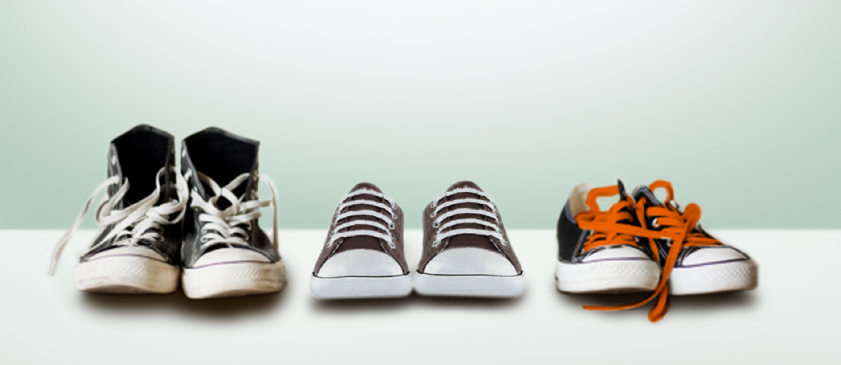
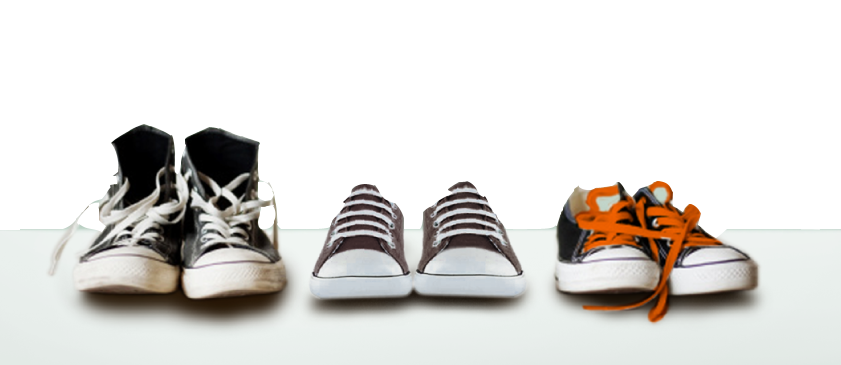
cut out images (badly)

diff --git a/css/main.css b/css/main.css
@@ -14,4 +14,4 @@
  * http://www.apache.org/licenses/LICENSE-2.0
  *
  * Designed and built with all the love in the world @twitter by @mdo and @fat.
- */@-ms-viewport{width:device-width}.hidden{display:none;visibility:hidden}.visible-phone{display:none !important}.visible-tablet{display:none !important}.hidden-desktop{display:none !important}.visible-desktop{display:inherit !important}@media (min-width: 768px) and (max-width: 979px){.hidden-desktop{display:inherit !important}.visible-desktop{display:none !important}.visible-tablet{display:inherit !important}.hidden-tablet{display:none !important}}@media (max-width: 767px){.hidden-desktop{display:inherit !important}.visible-desktop{display:none !important}.visible-phone{display:inherit !important}.hidden-phone{display:none !important}}.visible-print{display:none !important}@media print{.visible-print{display:inherit !important}.hidden-print{display:none !important}}.clearfix{*zoom:1}.clearfix:before,.clearfix:after{display:table;content:"";line-height:0}.clearfix:after{clear:both}.hide-text{font:0/0 a;color:transparent;text-shadow:none;background-color:transparent;border:0}.input-block-level{display:block;width:100%;min-height:30px;-webkit-box-sizing:border-box;-moz-box-sizing:border-box;box-sizing:border-box}@media (min-width: 1200px){.row{margin-left:-30px;*zoom:1}.row:before,.row:after{display:table;content:"";line-height:0}.row:after{clear:both}[class*="span"]{float:left;min-height:1px;margin-left:30px}.container,.navbar-static-top .container,.navbar-fixed-top .container,.navbar-fixed-bottom .container{width:1170px}.span1{width:70px}.span2{width:170px}.span3{width:270px}.span4{width:370px}.span5{width:470px}.span6{width:570px}.span7{width:670px}.span8{width:770px}.span9{width:870px}.span10{width:970px}.span11{width:1070px}.span12{width:1170px}.offset1{margin-left:130px}.offset2{margin-left:230px}.offset3{margin-left:330px}.offset4{margin-left:430px}.offset5{margin-left:530px}.offset6{margin-left:630px}.offset7{margin-left:730px}.offset8{margin-left:830px}.offset9{margin-left:930px}.offset10{margin-left:1030px}.offset11{margin-left:1130px}.offset12{margin-left:1230px}.row-fluid{width:100%;*zoom:1}.row-fluid:before,.row-fluid:after{display:table;content:"";line-height:0}.row-fluid:after{clear:both}.row-fluid [class*="span"]{display:block;width:100%;min-height:30px;-webkit-box-sizing:border-box;-moz-box-sizing:border-box;box-sizing:border-box;float:left;margin-left:2.5641%;*margin-left:2.51091%}.row-fluid [class*="span"]:first-child{margin-left:0}.row-fluid .controls-row [class*="span"]+[class*="span"]{margin-left:2.5641%}.row-fluid .span1{width:5.98291%;*width:5.92971%}.row-fluid .span2{width:14.52991%;*width:14.47672%}.row-fluid .span3{width:23.07692%;*width:23.02373%}.row-fluid .span4{width:31.62393%;*width:31.57074%}.row-fluid .span5{width:40.17094%;*width:40.11775%}.row-fluid .span6{width:48.71795%;*width:48.66476%}.row-fluid .span7{width:57.26496%;*width:57.21177%}.row-fluid .span8{width:65.81197%;*width:65.75877%}.row-fluid .span9{width:74.35897%;*width:74.30578%}.row-fluid .span10{width:82.90598%;*width:82.85279%}.row-fluid .span11{width:91.45299%;*width:91.3998%}.row-fluid .span12{width:100%;*width:99.94681%}.row-fluid .offset1{margin-left:11.11111%;*margin-left:11.00473%}.row-fluid .offset1:first-child{margin-left:8.54701%;*margin-left:8.44063%}.row-fluid .offset2{margin-left:19.65812%;*margin-left:19.55174%}.row-fluid .offset2:first-child{margin-left:17.09402%;*margin-left:16.98763%}.row-fluid .offset3{margin-left:28.20513%;*margin-left:28.09875%}.row-fluid .offset3:first-child{margin-left:25.64103%;*margin-left:25.53464%}.row-fluid .offset4{margin-left:36.75214%;*margin-left:36.64575%}.row-fluid .offset4:first-child{margin-left:34.18803%;*margin-left:34.08165%}.row-fluid .offset5{margin-left:45.29915%;*margin-left:45.19276%}.row-fluid .offset5:first-child{margin-left:42.73504%;*margin-left:42.62866%}.row-fluid .offset6{margin-left:53.84615%;*margin-left:53.73977%}.row-fluid .offset6:first-child{margin-left:51.28205%;*margin-left:51.17567%}.row-fluid .offset7{margin-left:62.39316%;*margin-left:62.28678%}.row-fluid .offset7:first-child{margin-left:59.82906%;*margin-left:59.72268%}.row-fluid .offset8{margin-left:70.94017%;*margin-left:70.83379%}.row-fluid .offset8:first-child{margin-left:68.37607%;*margin-left:68.26969%}.row-fluid .offset9{margin-left:79.48718%;*margin-left:79.3808%}.row-fluid .offset9:first-child{margin-left:76.92308%;*margin-left:76.81669%}.row-fluid .offset10{margin-left:88.03419%;*margin-left:87.92781%}.row-fluid .offset10:first-child{margin-left:85.47009%;*margin-left:85.3637%}.row-fluid .offset11{margin-left:96.5812%;*margin-left:96.47481%}.row-fluid .offset11:first-child{margin-left:94.01709%;*margin-left:93.91071%}.row-fluid .offset12{margin-left:105.12821%;*margin-left:105.02182%}.row-fluid .offset12:first-child{margin-left:102.5641%;*margin-left:102.45772%}input,textarea,.uneditable-input{margin-left:0}.controls-row [class*="span"]+[class*="span"]{margin-left:30px}input.span1,textarea.span1,.uneditable-input.span1{width:56px}input.span2,textarea.span2,.uneditable-input.span2{width:156px}input.span3,textarea.span3,.uneditable-input.span3{width:256px}input.span4,textarea.span4,.uneditable-input.span4{width:356px}input.span5,textarea.span5,.uneditable-input.span5{width:456px}input.span6,textarea.span6,.uneditable-input.span6{width:556px}input.span7,textarea.span7,.uneditable-input.span7{width:656px}input.span8,textarea.span8,.uneditable-input.span8{width:756px}input.span9,textarea.span9,.uneditable-input.span9{width:856px}input.span10,textarea.span10,.uneditable-input.span10{width:956px}input.span11,textarea.span11,.uneditable-input.span11{width:1056px}input.span12,textarea.span12,.uneditable-input.span12{width:1156px}.thumbnails{margin-left:-30px}.thumbnails>li{margin-left:30px}.row-fluid .thumbnails{margin-left:0}}@media (min-width: 768px) and (max-width: 979px){.row{margin-left:-20px;*zoom:1}.row:before,.row:after{display:table;content:"";line-height:0}.row:after{clear:both}[class*="span"]{float:left;min-height:1px;margin-left:20px}.container,.navbar-static-top .container,.navbar-fixed-top .container,.navbar-fixed-bottom .container{width:724px}.span1{width:42px}.span2{width:104px}.span3{width:166px}.span4{width:228px}.span5{width:290px}.span6{width:352px}.span7{width:414px}.span8{width:476px}.span9{width:538px}.span10{width:600px}.span11{width:662px}.span12{width:724px}.offset1{margin-left:82px}.offset2{margin-left:144px}.offset3{margin-left:206px}.offset4{margin-left:268px}.offset5{margin-left:330px}.offset6{margin-left:392px}.offset7{margin-left:454px}.offset8{margin-left:516px}.offset9{margin-left:578px}.offset10{margin-left:640px}.offset11{margin-left:702px}.offset12{margin-left:764px}.row-fluid{width:100%;*zoom:1}.row-fluid:before,.row-fluid:after{display:table;content:"";line-height:0}.row-fluid:after{clear:both}.row-fluid [class*="span"]{display:block;width:100%;min-height:30px;-webkit-box-sizing:border-box;-moz-box-sizing:border-box;box-sizing:border-box;float:left;margin-left:2.76243%;*margin-left:2.70924%}.row-fluid [class*="span"]:first-child{margin-left:0}.row-fluid .controls-row [class*="span"]+[class*="span"]{margin-left:2.76243%}.row-fluid .span1{width:5.8011%;*width:5.74791%}.row-fluid .span2{width:14.36464%;*width:14.31145%}.row-fluid .span3{width:22.92818%;*width:22.87499%}.row-fluid .span4{width:31.49171%;*width:31.43852%}.row-fluid .span5{width:40.05525%;*width:40.00206%}.row-fluid .span6{width:48.61878%;*width:48.56559%}.row-fluid .span7{width:57.18232%;*width:57.12913%}.row-fluid .span8{width:65.74586%;*width:65.69266%}.row-fluid .span9{width:74.30939%;*width:74.2562%}.row-fluid .span10{width:82.87293%;*width:82.81974%}.row-fluid .span11{width:91.43646%;*width:91.38327%}.row-fluid .span12{width:100%;*width:99.94681%}.row-fluid .offset1{margin-left:11.32597%;*margin-left:11.21958%}.row-fluid .offset1:first-child{margin-left:8.56354%;*margin-left:8.45715%}.row-fluid .offset2{margin-left:19.8895%;*margin-left:19.78312%}.row-fluid .offset2:first-child{margin-left:17.12707%;*margin-left:17.02069%}.row-fluid .offset3{margin-left:28.45304%;*margin-left:28.34666%}.row-fluid .offset3:first-child{margin-left:25.69061%;*margin-left:25.58422%}.row-fluid .offset4{margin-left:37.01657%;*margin-left:36.91019%}.row-fluid .offset4:first-child{margin-left:34.25414%;*margin-left:34.14776%}.row-fluid .offset5{margin-left:45.58011%;*margin-left:45.47373%}.row-fluid .offset5:first-child{margin-left:42.81768%;*margin-left:42.7113%}.row-fluid .offset6{margin-left:54.14365%;*margin-left:54.03726%}.row-fluid .offset6:first-child{margin-left:51.38122%;*margin-left:51.27483%}.row-fluid .offset7{margin-left:62.70718%;*margin-left:62.6008%}.row-fluid .offset7:first-child{margin-left:59.94475%;*margin-left:59.83837%}.row-fluid .offset8{margin-left:71.27072%;*margin-left:71.16434%}.row-fluid .offset8:first-child{margin-left:68.50829%;*margin-left:68.4019%}.row-fluid .offset9{margin-left:79.83425%;*margin-left:79.72787%}.row-fluid .offset9:first-child{margin-left:77.07182%;*margin-left:76.96544%}.row-fluid .offset10{margin-left:88.39779%;*margin-left:88.29141%}.row-fluid .offset10:first-child{margin-left:85.63536%;*margin-left:85.52898%}.row-fluid .offset11{margin-left:96.96133%;*margin-left:96.85494%}.row-fluid .offset11:first-child{margin-left:94.1989%;*margin-left:94.09251%}.row-fluid .offset12{margin-left:105.52486%;*margin-left:105.41848%}.row-fluid .offset12:first-child{margin-left:102.76243%;*margin-left:102.65605%}input,textarea,.uneditable-input{margin-left:0}.controls-row [class*="span"]+[class*="span"]{margin-left:20px}input.span1,textarea.span1,.uneditable-input.span1{width:28px}input.span2,textarea.span2,.uneditable-input.span2{width:90px}input.span3,textarea.span3,.uneditable-input.span3{width:152px}input.span4,textarea.span4,.uneditable-input.span4{width:214px}input.span5,textarea.span5,.uneditable-input.span5{width:276px}input.span6,textarea.span6,.uneditable-input.span6{width:338px}input.span7,textarea.span7,.uneditable-input.span7{width:400px}input.span8,textarea.span8,.uneditable-input.span8{width:462px}input.span9,textarea.span9,.uneditable-input.span9{width:524px}input.span10,textarea.span10,.uneditable-input.span10{width:586px}input.span11,textarea.span11,.uneditable-input.span11{width:648px}input.span12,textarea.span12,.uneditable-input.span12{width:710px}}@media (max-width: 767px){body{padding-left:20px;padding-right:20px}.navbar-fixed-top,.navbar-fixed-bottom,.navbar-static-top{margin-left:-20px;margin-right:-20px}.container-fluid{padding:0}.dl-horizontal dt{float:none;clear:none;width:auto;text-align:left}.dl-horizontal dd{margin-left:0}.container{width:auto}.row-fluid{width:100%}.row,.thumbnails{margin-left:0}.thumbnails>li{float:none;margin-left:0}[class*="span"],.uneditable-input[class*="span"],.row-fluid [class*="span"]{float:none;display:block;width:100%;margin-left:0;-webkit-box-sizing:border-box;-moz-box-sizing:border-box;box-sizing:border-box}.span12,.row-fluid .span12{width:100%;-webkit-box-sizing:border-box;-moz-box-sizing:border-box;box-sizing:border-box}.row-fluid [class*="offset"]:first-child{margin-left:0}.input-large,.input-xlarge,.input-xxlarge,input[class*="span"],select[class*="span"],textarea[class*="span"],.uneditable-input{display:block;width:100%;min-height:30px;-webkit-box-sizing:border-box;-moz-box-sizing:border-box;box-sizing:border-box}.input-prepend input,.input-append input,.input-prepend input[class*="span"],.input-append input[class*="span"]{display:inline-block;width:auto}.controls-row [class*="span"]+[class*="span"]{margin-left:0}.modal{position:fixed;top:20px;left:20px;right:20px;width:auto;margin:0}.modal.fade{top:-100px}.modal.fade.in{top:20px}}@media (max-width: 480px){.nav-collapse{-webkit-transform:translate3d(0, 0, 0)}.page-header h1 small{display:block;line-height:20px}input[type="checkbox"],input[type="radio"]{border:1px solid #ccc}.form-horizontal .control-label{float:none;width:auto;padding-top:0;text-align:left}.form-horizontal .controls{margin-left:0}.form-horizontal .control-list{padding-top:0}.form-horizontal .form-actions{padding-left:10px;padding-right:10px}.media .pull-left,.media .pull-right{float:none;display:block;margin-bottom:10px}.media-object{margin-right:0;margin-left:0}.modal{top:10px;left:10px;right:10px}.modal-header .close{padding:10px;margin:-10px}.carousel-caption{position:static}}@media (max-width: 979px){body{padding-top:0}.navbar-fixed-top,.navbar-fixed-bottom{position:static}.navbar-fixed-top{margin-bottom:20px}.navbar-fixed-bottom{margin-top:20px}.navbar-fixed-top .navbar-inner,.navbar-fixed-bottom .navbar-inner{padding:5px}.navbar .container{width:auto;padding:0}.navbar .brand{padding-left:10px;padding-right:10px;margin:0 0 0 -5px}.nav-collapse{clear:both}.nav-collapse .nav{float:none;margin:0 0 10px}.nav-collapse .nav>li{float:none}.nav-collapse .nav>li>a{margin-bottom:2px}.nav-collapse .nav>.divider-vertical{display:none}.nav-collapse .nav .nav-header{color:#777;text-shadow:none}.nav-collapse .nav>li>a,.nav-collapse .dropdown-menu a{padding:9px 15px;font-weight:bold;color:#777;-webkit-border-radius:3px;-moz-border-radius:3px;border-radius:3px}.nav-collapse .btn{padding:4px 10px 4px;font-weight:normal;-webkit-border-radius:4px;-moz-border-radius:4px;border-radius:4px}.nav-collapse .dropdown-menu li+li a{margin-bottom:2px}.nav-collapse .nav>li>a:hover,.nav-collapse .nav>li>a:focus,.nav-collapse .dropdown-menu a:hover,.nav-collapse .dropdown-menu a:focus{background-color:#f2f2f2}.navbar-inverse .nav-collapse .nav>li>a,.navbar-inverse .nav-collapse .dropdown-menu a{color:#999}.navbar-inverse .nav-collapse .nav>li>a:hover,.navbar-inverse .nav-collapse .nav>li>a:focus,.navbar-inverse .nav-collapse .dropdown-menu a:hover,.navbar-inverse .nav-collapse .dropdown-menu a:focus{background-color:#111}.nav-collapse.in .btn-group{margin-top:5px;padding:0}.nav-collapse .dropdown-menu{position:static;top:auto;left:auto;float:none;display:none;max-width:none;margin:0 15px;padding:0;background-color:transparent;border:none;-webkit-border-radius:0;-moz-border-radius:0;border-radius:0;-webkit-box-shadow:none;-moz-box-shadow:none;box-shadow:none}.nav-collapse .open>.dropdown-menu{display:block}.nav-collapse .dropdown-menu:before,.nav-collapse .dropdown-menu:after{display:none}.nav-collapse .dropdown-menu .divider{display:none}.nav-collapse .nav>li>.dropdown-menu:before,.nav-collapse .nav>li>.dropdown-menu:after{display:none}.nav-collapse .navbar-form,.nav-collapse .navbar-search{float:none;padding:10px 15px;margin:10px 0;border-top:1px solid #f2f2f2;border-bottom:1px solid #f2f2f2;-webkit-box-shadow:inset 0 1px 0 rgba(255,255,255,0.1),0 1px 0 rgba(255,255,255,0.1);-moz-box-shadow:inset 0 1px 0 rgba(255,255,255,0.1),0 1px 0 rgba(255,255,255,0.1);box-shadow:inset 0 1px 0 rgba(255,255,255,0.1),0 1px 0 rgba(255,255,255,0.1)}.navbar-inverse .nav-collapse .navbar-form,.navbar-inverse .nav-collapse .navbar-search{border-top-color:#111;border-bottom-color:#111}.navbar .nav-collapse .nav.pull-right{float:none;margin-left:0}.nav-collapse,.nav-collapse.collapse{overflow:hidden;height:0}.navbar .btn-navbar{display:block}.navbar-static .navbar-inner{padding-left:10px;padding-right:10px}}@media (min-width: 980px){.nav-collapse.collapse{height:auto !important;overflow:visible !important}}body{background:#fc571f;color:#fff}@media (max-width: 767px){body{padding:0}}.topsection{position:relative;background:#e3e9e7;min-height:400px}@media (max-width: 767px){.topsection{min-height:inherit;max-height:450px}}@media (max-width: 480px){.topsection{max-height:300px}}.topsection .logo{position:absolute;background:url("../assets/static/images/logo.png") no-repeat center center;width:212px;height:123px;position:absolute;top:0;left:50%;margin-left:-106px;z-index:1;background-size:contain;-webkit-transition:height 0.3s ease,width 0.3s ease,min-height 0.3s ease,max-height 0.3s ease;-moz-transition:height 0.3s ease,width 0.3s ease,min-height 0.3s ease,max-height 0.3s ease;-o-transition:height 0.3s ease,width 0.3s ease,min-height 0.3s ease,max-height 0.3s ease;transition:height 0.3s ease,width 0.3s ease,min-height 0.3s ease,max-height 0.3s ease}@media (min-width: 1200px){.topsection .logo{width:300px;height:175px;margin-left:-150px}}img.bgimage{position:absolute;left:0;right:0;top:0;bottom:0;width:100%;height:100%;z-index:0}.mainnav{padding-top:50px;font-family:rockwell;font-size:14px;text-transform:uppercase}@media (min-width: 1200px){.mainnav{font-size:17px}}.mainnav ul{list-style:none}.mainnav ul li{display:block}.mainnav ul li a{color:#5d504d}.mainnav ul li a:hover{text-decoration:none}.mainnav ul li a.currentanchor{font-family:'thirsty script';font-size:17px;text-transform:capitalize;border-bottom:2px solid #fc571f;font-size:17px;font-weight:500}@media (min-width: 1200px){.mainnav ul li a.currentanchor{font-size:20px}}ul.leftnav{float:left}ul.rightnav{float:right}ul.leftnav li,ul.rightnav li{float:left;margin-right:100px;-webkit-transition:margin-right 0.3s ease;-moz-transition:margin-right 0.3s ease;-o-transition:margin-right 0.3s ease;transition:margin-right 0.3s ease}@media (min-width: 1200px){ul.leftnav li,ul.rightnav li{margin-right:200px}}@media (min-width: 768px) and (max-width: 979px){ul.leftnav li,ul.rightnav li{margin-right:80px}}ul.leftnav li:last-child,ul.rightnav li:last-child{margin-right:0}.scrollcontainer{position:absolute;bottom:10px;left:0;right:0;width:100%}.bottomsection{position:relative;font-family:magallanes;font-size:16px;text-align:center;padding-top:40px}.bottomsection .templateswap{padding:0 40px}@media (max-width: 480px){.bottomsection .templateswap{padding:0 10px}}@media (max-width: 480px){.bottomsection{font-size:12px}}.modalwindow{display:none;position:absolute;width:400px;margin-left:-200px;top:30%;left:50%;background:rgba(255,255,255,0.8);border-radius:10px;color:#333;z-index:2}.modalwindow .closebutton{position:absolute;top:10px;right:16px;font-size:27px;cursor:pointer}.modalwindow .prev{position:absolute;bottom:10px;left:15px;cursor:pointer}.modalwindow .next{position:absolute;bottom:10px;right:15px;cursor:pointer}.modalwindow .inner{padding:20px 30px 30px}.modalwindow h2{font-family:'tradegothic';font-size:22px}.modalwindow p{font-family:magallanes}div.pane{overflow:hidden;clear:left;position:relative}ul.elements{margin:0}ul.elements li{width:100%;display:block;float:left;margin:0;text-align:center;position:relative}ul.elements li img{width:100%}.templates,.likestemplates{display:none}.relative{display:relative}.swipe{overflow:hidden;visibility:hidden;position:relative}.swipe-wrap{overflow:hidden;position:relative}.swipe-wrap>div{float:left;width:100%;position:relative}
+ */@-ms-viewport{width:device-width}.hidden{display:none;visibility:hidden}.visible-phone{display:none !important}.visible-tablet{display:none !important}.hidden-desktop{display:none !important}.visible-desktop{display:inherit !important}@media (min-width: 768px) and (max-width: 979px){.hidden-desktop{display:inherit !important}.visible-desktop{display:none !important}.visible-tablet{display:inherit !important}.hidden-tablet{display:none !important}}@media (max-width: 767px){.hidden-desktop{display:inherit !important}.visible-desktop{display:none !important}.visible-phone{display:inherit !important}.hidden-phone{display:none !important}}.visible-print{display:none !important}@media print{.visible-print{display:inherit !important}.hidden-print{display:none !important}}.clearfix{*zoom:1}.clearfix:before,.clearfix:after{display:table;content:"";line-height:0}.clearfix:after{clear:both}.hide-text{font:0/0 a;color:transparent;text-shadow:none;background-color:transparent;border:0}.input-block-level{display:block;width:100%;min-height:30px;-webkit-box-sizing:border-box;-moz-box-sizing:border-box;box-sizing:border-box}@media (min-width: 1200px){.row{margin-left:-30px;*zoom:1}.row:before,.row:after{display:table;content:"";line-height:0}.row:after{clear:both}[class*="span"]{float:left;min-height:1px;margin-left:30px}.container,.navbar-static-top .container,.navbar-fixed-top .container,.navbar-fixed-bottom .container{width:1170px}.span1{width:70px}.span2{width:170px}.span3{width:270px}.span4{width:370px}.span5{width:470px}.span6{width:570px}.span7{width:670px}.span8{width:770px}.span9{width:870px}.span10{width:970px}.span11{width:1070px}.span12{width:1170px}.offset1{margin-left:130px}.offset2{margin-left:230px}.offset3{margin-left:330px}.offset4{margin-left:430px}.offset5{margin-left:530px}.offset6{margin-left:630px}.offset7{margin-left:730px}.offset8{margin-left:830px}.offset9{margin-left:930px}.offset10{margin-left:1030px}.offset11{margin-left:1130px}.offset12{margin-left:1230px}.row-fluid{width:100%;*zoom:1}.row-fluid:before,.row-fluid:after{display:table;content:"";line-height:0}.row-fluid:after{clear:both}.row-fluid [class*="span"]{display:block;width:100%;min-height:30px;-webkit-box-sizing:border-box;-moz-box-sizing:border-box;box-sizing:border-box;float:left;margin-left:2.5641%;*margin-left:2.51091%}.row-fluid [class*="span"]:first-child{margin-left:0}.row-fluid .controls-row [class*="span"]+[class*="span"]{margin-left:2.5641%}.row-fluid .span1{width:5.98291%;*width:5.92971%}.row-fluid .span2{width:14.52991%;*width:14.47672%}.row-fluid .span3{width:23.07692%;*width:23.02373%}.row-fluid .span4{width:31.62393%;*width:31.57074%}.row-fluid .span5{width:40.17094%;*width:40.11775%}.row-fluid .span6{width:48.71795%;*width:48.66476%}.row-fluid .span7{width:57.26496%;*width:57.21177%}.row-fluid .span8{width:65.81197%;*width:65.75877%}.row-fluid .span9{width:74.35897%;*width:74.30578%}.row-fluid .span10{width:82.90598%;*width:82.85279%}.row-fluid .span11{width:91.45299%;*width:91.3998%}.row-fluid .span12{width:100%;*width:99.94681%}.row-fluid .offset1{margin-left:11.11111%;*margin-left:11.00473%}.row-fluid .offset1:first-child{margin-left:8.54701%;*margin-left:8.44063%}.row-fluid .offset2{margin-left:19.65812%;*margin-left:19.55174%}.row-fluid .offset2:first-child{margin-left:17.09402%;*margin-left:16.98763%}.row-fluid .offset3{margin-left:28.20513%;*margin-left:28.09875%}.row-fluid .offset3:first-child{margin-left:25.64103%;*margin-left:25.53464%}.row-fluid .offset4{margin-left:36.75214%;*margin-left:36.64575%}.row-fluid .offset4:first-child{margin-left:34.18803%;*margin-left:34.08165%}.row-fluid .offset5{margin-left:45.29915%;*margin-left:45.19276%}.row-fluid .offset5:first-child{margin-left:42.73504%;*margin-left:42.62866%}.row-fluid .offset6{margin-left:53.84615%;*margin-left:53.73977%}.row-fluid .offset6:first-child{margin-left:51.28205%;*margin-left:51.17567%}.row-fluid .offset7{margin-left:62.39316%;*margin-left:62.28678%}.row-fluid .offset7:first-child{margin-left:59.82906%;*margin-left:59.72268%}.row-fluid .offset8{margin-left:70.94017%;*margin-left:70.83379%}.row-fluid .offset8:first-child{margin-left:68.37607%;*margin-left:68.26969%}.row-fluid .offset9{margin-left:79.48718%;*margin-left:79.3808%}.row-fluid .offset9:first-child{margin-left:76.92308%;*margin-left:76.81669%}.row-fluid .offset10{margin-left:88.03419%;*margin-left:87.92781%}.row-fluid .offset10:first-child{margin-left:85.47009%;*margin-left:85.3637%}.row-fluid .offset11{margin-left:96.5812%;*margin-left:96.47481%}.row-fluid .offset11:first-child{margin-left:94.01709%;*margin-left:93.91071%}.row-fluid .offset12{margin-left:105.12821%;*margin-left:105.02182%}.row-fluid .offset12:first-child{margin-left:102.5641%;*margin-left:102.45772%}input,textarea,.uneditable-input{margin-left:0}.controls-row [class*="span"]+[class*="span"]{margin-left:30px}input.span1,textarea.span1,.uneditable-input.span1{width:56px}input.span2,textarea.span2,.uneditable-input.span2{width:156px}input.span3,textarea.span3,.uneditable-input.span3{width:256px}input.span4,textarea.span4,.uneditable-input.span4{width:356px}input.span5,textarea.span5,.uneditable-input.span5{width:456px}input.span6,textarea.span6,.uneditable-input.span6{width:556px}input.span7,textarea.span7,.uneditable-input.span7{width:656px}input.span8,textarea.span8,.uneditable-input.span8{width:756px}input.span9,textarea.span9,.uneditable-input.span9{width:856px}input.span10,textarea.span10,.uneditable-input.span10{width:956px}input.span11,textarea.span11,.uneditable-input.span11{width:1056px}input.span12,textarea.span12,.uneditable-input.span12{width:1156px}.thumbnails{margin-left:-30px}.thumbnails>li{margin-left:30px}.row-fluid .thumbnails{margin-left:0}}@media (min-width: 768px) and (max-width: 979px){.row{margin-left:-20px;*zoom:1}.row:before,.row:after{display:table;content:"";line-height:0}.row:after{clear:both}[class*="span"]{float:left;min-height:1px;margin-left:20px}.container,.navbar-static-top .container,.navbar-fixed-top .container,.navbar-fixed-bottom .container{width:724px}.span1{width:42px}.span2{width:104px}.span3{width:166px}.span4{width:228px}.span5{width:290px}.span6{width:352px}.span7{width:414px}.span8{width:476px}.span9{width:538px}.span10{width:600px}.span11{width:662px}.span12{width:724px}.offset1{margin-left:82px}.offset2{margin-left:144px}.offset3{margin-left:206px}.offset4{margin-left:268px}.offset5{margin-left:330px}.offset6{margin-left:392px}.offset7{margin-left:454px}.offset8{margin-left:516px}.offset9{margin-left:578px}.offset10{margin-left:640px}.offset11{margin-left:702px}.offset12{margin-left:764px}.row-fluid{width:100%;*zoom:1}.row-fluid:before,.row-fluid:after{display:table;content:"";line-height:0}.row-fluid:after{clear:both}.row-fluid [class*="span"]{display:block;width:100%;min-height:30px;-webkit-box-sizing:border-box;-moz-box-sizing:border-box;box-sizing:border-box;float:left;margin-left:2.76243%;*margin-left:2.70924%}.row-fluid [class*="span"]:first-child{margin-left:0}.row-fluid .controls-row [class*="span"]+[class*="span"]{margin-left:2.76243%}.row-fluid .span1{width:5.8011%;*width:5.74791%}.row-fluid .span2{width:14.36464%;*width:14.31145%}.row-fluid .span3{width:22.92818%;*width:22.87499%}.row-fluid .span4{width:31.49171%;*width:31.43852%}.row-fluid .span5{width:40.05525%;*width:40.00206%}.row-fluid .span6{width:48.61878%;*width:48.56559%}.row-fluid .span7{width:57.18232%;*width:57.12913%}.row-fluid .span8{width:65.74586%;*width:65.69266%}.row-fluid .span9{width:74.30939%;*width:74.2562%}.row-fluid .span10{width:82.87293%;*width:82.81974%}.row-fluid .span11{width:91.43646%;*width:91.38327%}.row-fluid .span12{width:100%;*width:99.94681%}.row-fluid .offset1{margin-left:11.32597%;*margin-left:11.21958%}.row-fluid .offset1:first-child{margin-left:8.56354%;*margin-left:8.45715%}.row-fluid .offset2{margin-left:19.8895%;*margin-left:19.78312%}.row-fluid .offset2:first-child{margin-left:17.12707%;*margin-left:17.02069%}.row-fluid .offset3{margin-left:28.45304%;*margin-left:28.34666%}.row-fluid .offset3:first-child{margin-left:25.69061%;*margin-left:25.58422%}.row-fluid .offset4{margin-left:37.01657%;*margin-left:36.91019%}.row-fluid .offset4:first-child{margin-left:34.25414%;*margin-left:34.14776%}.row-fluid .offset5{margin-left:45.58011%;*margin-left:45.47373%}.row-fluid .offset5:first-child{margin-left:42.81768%;*margin-left:42.7113%}.row-fluid .offset6{margin-left:54.14365%;*margin-left:54.03726%}.row-fluid .offset6:first-child{margin-left:51.38122%;*margin-left:51.27483%}.row-fluid .offset7{margin-left:62.70718%;*margin-left:62.6008%}.row-fluid .offset7:first-child{margin-left:59.94475%;*margin-left:59.83837%}.row-fluid .offset8{margin-left:71.27072%;*margin-left:71.16434%}.row-fluid .offset8:first-child{margin-left:68.50829%;*margin-left:68.4019%}.row-fluid .offset9{margin-left:79.83425%;*margin-left:79.72787%}.row-fluid .offset9:first-child{margin-left:77.07182%;*margin-left:76.96544%}.row-fluid .offset10{margin-left:88.39779%;*margin-left:88.29141%}.row-fluid .offset10:first-child{margin-left:85.63536%;*margin-left:85.52898%}.row-fluid .offset11{margin-left:96.96133%;*margin-left:96.85494%}.row-fluid .offset11:first-child{margin-left:94.1989%;*margin-left:94.09251%}.row-fluid .offset12{margin-left:105.52486%;*margin-left:105.41848%}.row-fluid .offset12:first-child{margin-left:102.76243%;*margin-left:102.65605%}input,textarea,.uneditable-input{margin-left:0}.controls-row [class*="span"]+[class*="span"]{margin-left:20px}input.span1,textarea.span1,.uneditable-input.span1{width:28px}input.span2,textarea.span2,.uneditable-input.span2{width:90px}input.span3,textarea.span3,.uneditable-input.span3{width:152px}input.span4,textarea.span4,.uneditable-input.span4{width:214px}input.span5,textarea.span5,.uneditable-input.span5{width:276px}input.span6,textarea.span6,.uneditable-input.span6{width:338px}input.span7,textarea.span7,.uneditable-input.span7{width:400px}input.span8,textarea.span8,.uneditable-input.span8{width:462px}input.span9,textarea.span9,.uneditable-input.span9{width:524px}input.span10,textarea.span10,.uneditable-input.span10{width:586px}input.span11,textarea.span11,.uneditable-input.span11{width:648px}input.span12,textarea.span12,.uneditable-input.span12{width:710px}}@media (max-width: 767px){body{padding-left:20px;padding-right:20px}.navbar-fixed-top,.navbar-fixed-bottom,.navbar-static-top{margin-left:-20px;margin-right:-20px}.container-fluid{padding:0}.dl-horizontal dt{float:none;clear:none;width:auto;text-align:left}.dl-horizontal dd{margin-left:0}.container{width:auto}.row-fluid{width:100%}.row,.thumbnails{margin-left:0}.thumbnails>li{float:none;margin-left:0}[class*="span"],.uneditable-input[class*="span"],.row-fluid [class*="span"]{float:none;display:block;width:100%;margin-left:0;-webkit-box-sizing:border-box;-moz-box-sizing:border-box;box-sizing:border-box}.span12,.row-fluid .span12{width:100%;-webkit-box-sizing:border-box;-moz-box-sizing:border-box;box-sizing:border-box}.row-fluid [class*="offset"]:first-child{margin-left:0}.input-large,.input-xlarge,.input-xxlarge,input[class*="span"],select[class*="span"],textarea[class*="span"],.uneditable-input{display:block;width:100%;min-height:30px;-webkit-box-sizing:border-box;-moz-box-sizing:border-box;box-sizing:border-box}.input-prepend input,.input-append input,.input-prepend input[class*="span"],.input-append input[class*="span"]{display:inline-block;width:auto}.controls-row [class*="span"]+[class*="span"]{margin-left:0}.modal{position:fixed;top:20px;left:20px;right:20px;width:auto;margin:0}.modal.fade{top:-100px}.modal.fade.in{top:20px}}@media (max-width: 480px){.nav-collapse{-webkit-transform:translate3d(0, 0, 0)}.page-header h1 small{display:block;line-height:20px}input[type="checkbox"],input[type="radio"]{border:1px solid #ccc}.form-horizontal .control-label{float:none;width:auto;padding-top:0;text-align:left}.form-horizontal .controls{margin-left:0}.form-horizontal .control-list{padding-top:0}.form-horizontal .form-actions{padding-left:10px;padding-right:10px}.media .pull-left,.media .pull-right{float:none;display:block;margin-bottom:10px}.media-object{margin-right:0;margin-left:0}.modal{top:10px;left:10px;right:10px}.modal-header .close{padding:10px;margin:-10px}.carousel-caption{position:static}}@media (max-width: 979px){body{padding-top:0}.navbar-fixed-top,.navbar-fixed-bottom{position:static}.navbar-fixed-top{margin-bottom:20px}.navbar-fixed-bottom{margin-top:20px}.navbar-fixed-top .navbar-inner,.navbar-fixed-bottom .navbar-inner{padding:5px}.navbar .container{width:auto;padding:0}.navbar .brand{padding-left:10px;padding-right:10px;margin:0 0 0 -5px}.nav-collapse{clear:both}.nav-collapse .nav{float:none;margin:0 0 10px}.nav-collapse .nav>li{float:none}.nav-collapse .nav>li>a{margin-bottom:2px}.nav-collapse .nav>.divider-vertical{display:none}.nav-collapse .nav .nav-header{color:#777;text-shadow:none}.nav-collapse .nav>li>a,.nav-collapse .dropdown-menu a{padding:9px 15px;font-weight:bold;color:#777;-webkit-border-radius:3px;-moz-border-radius:3px;border-radius:3px}.nav-collapse .btn{padding:4px 10px 4px;font-weight:normal;-webkit-border-radius:4px;-moz-border-radius:4px;border-radius:4px}.nav-collapse .dropdown-menu li+li a{margin-bottom:2px}.nav-collapse .nav>li>a:hover,.nav-collapse .nav>li>a:focus,.nav-collapse .dropdown-menu a:hover,.nav-collapse .dropdown-menu a:focus{background-color:#f2f2f2}.navbar-inverse .nav-collapse .nav>li>a,.navbar-inverse .nav-collapse .dropdown-menu a{color:#999}.navbar-inverse .nav-collapse .nav>li>a:hover,.navbar-inverse .nav-collapse .nav>li>a:focus,.navbar-inverse .nav-collapse .dropdown-menu a:hover,.navbar-inverse .nav-collapse .dropdown-menu a:focus{background-color:#111}.nav-collapse.in .btn-group{margin-top:5px;padding:0}.nav-collapse .dropdown-menu{position:static;top:auto;left:auto;float:none;display:none;max-width:none;margin:0 15px;padding:0;background-color:transparent;border:none;-webkit-border-radius:0;-moz-border-radius:0;border-radius:0;-webkit-box-shadow:none;-moz-box-shadow:none;box-shadow:none}.nav-collapse .open>.dropdown-menu{display:block}.nav-collapse .dropdown-menu:before,.nav-collapse .dropdown-menu:after{display:none}.nav-collapse .dropdown-menu .divider{display:none}.nav-collapse .nav>li>.dropdown-menu:before,.nav-collapse .nav>li>.dropdown-menu:after{display:none}.nav-collapse .navbar-form,.nav-collapse .navbar-search{float:none;padding:10px 15px;margin:10px 0;border-top:1px solid #f2f2f2;border-bottom:1px solid #f2f2f2;-webkit-box-shadow:inset 0 1px 0 rgba(255,255,255,0.1),0 1px 0 rgba(255,255,255,0.1);-moz-box-shadow:inset 0 1px 0 rgba(255,255,255,0.1),0 1px 0 rgba(255,255,255,0.1);box-shadow:inset 0 1px 0 rgba(255,255,255,0.1),0 1px 0 rgba(255,255,255,0.1)}.navbar-inverse .nav-collapse .navbar-form,.navbar-inverse .nav-collapse .navbar-search{border-top-color:#111;border-bottom-color:#111}.navbar .nav-collapse .nav.pull-right{float:none;margin-left:0}.nav-collapse,.nav-collapse.collapse{overflow:hidden;height:0}.navbar .btn-navbar{display:block}.navbar-static .navbar-inner{padding-left:10px;padding-right:10px}}@media (min-width: 980px){.nav-collapse.collapse{height:auto !important;overflow:visible !important}}body{background:#fc571f;color:#fff}@media (max-width: 767px){body{padding:0}}.topsection{position:relative;background:#e3e9e7;min-height:400px}@media (max-width: 767px){.topsection{min-height:inherit;max-height:450px}}@media (max-width: 480px){.topsection{max-height:250px}}.topsection .logo{position:absolute;background:url("../assets/static/images/logo.png") no-repeat center center;width:212px;height:123px;position:absolute;top:0;left:50%;margin-left:-106px;z-index:1;background-size:contain;-webkit-transition:height 0.3s ease,width 0.3s ease,min-height 0.3s ease,max-height 0.3s ease;-moz-transition:height 0.3s ease,width 0.3s ease,min-height 0.3s ease,max-height 0.3s ease;-o-transition:height 0.3s ease,width 0.3s ease,min-height 0.3s ease,max-height 0.3s ease;transition:height 0.3s ease,width 0.3s ease,min-height 0.3s ease,max-height 0.3s ease}@media (min-width: 1200px){.topsection .logo{width:300px;height:175px;margin-left:-150px}}@media (max-width: 480px){.topsection .logo{width:160px;margin-left:-80px}}img.bgimage{position:absolute;left:0;right:0;top:0;bottom:0;width:100%;height:100%;z-index:0}.mainnav{padding-top:50px;font-family:rockwell;font-size:14px;text-transform:uppercase}@media (min-width: 1200px){.mainnav{font-size:17px}}.mainnav ul{list-style:none}.mainnav ul li{display:block}.mainnav ul li a{color:#5d504d}.mainnav ul li a:hover{text-decoration:none}.mainnav ul li a.currentanchor{font-family:'thirsty script';font-size:17px;text-transform:capitalize;border-bottom:2px solid #fc571f;font-size:17px;font-weight:500}@media (min-width: 1200px){.mainnav ul li a.currentanchor{font-size:20px}}ul.leftnav{float:left}ul.rightnav{float:right}ul.leftnav li,ul.rightnav li{float:left;margin-right:100px;-webkit-transition:margin-right 0.3s ease;-moz-transition:margin-right 0.3s ease;-o-transition:margin-right 0.3s ease;transition:margin-right 0.3s ease}@media (min-width: 1200px){ul.leftnav li,ul.rightnav li{margin-right:200px}}@media (min-width: 768px) and (max-width: 979px){ul.leftnav li,ul.rightnav li{margin-right:80px}}ul.leftnav li:last-child,ul.rightnav li:last-child{margin-right:0}.scrollcontainer{position:absolute;bottom:10px;left:0;right:0;width:100%}.bottomsection{position:relative;font-family:magallanes;font-size:16px;text-align:center;padding-top:40px}.bottomsection .templateswap{padding:0 40px}@media (max-width: 480px){.bottomsection .templateswap{padding:0 10px}}@media (max-width: 480px){.bottomsection{font-size:12px}}.modalwindow{display:none;position:absolute;width:400px;margin-left:-200px;top:30%;left:50%;background:rgba(255,255,255,0.8);border-radius:10px;color:#333;z-index:2}.modalwindow .closebutton{position:absolute;top:10px;right:16px;font-size:27px;cursor:pointer}.modalwindow .prev{position:absolute;bottom:10px;left:15px;cursor:pointer}.modalwindow .next{position:absolute;bottom:10px;right:15px;cursor:pointer}.modalwindow .inner{padding:20px 30px 30px}.modalwindow h2{font-family:'tradegothic';font-size:22px}.modalwindow p{font-family:magallanes}div.pane{overflow:hidden;clear:left;position:relative}ul.elements{margin:0}ul.elements li{width:100%;display:block;float:left;margin:0;text-align:center;position:relative}ul.elements li img{width:100%}.templates,.likestemplates{display:none}.relative{display:relative}.swipe{overflow:hidden;visibility:hidden;position:relative}.swipe-wrap{overflow:hidden;position:relative}.swipe-wrap>div{float:left;width:100%;position:relative}

diff --git a/js/main-ck.js b/js/main-ck.js
@@ -1,1 +1,1 @@
-$(function(){function r(){setTimeout(function(){if(mySwipe){var e=$("#slider").height(),t=$(".topsection").height(),n=t-e;$(".sliderwrapper").css("margin-top",n);console.log("done")}else r()},1)}$(".gotopane").click(function(){var e=$(this).attr("rel");$(".modalwindow").fadeTo(200,0,function(){$(this).hide()});var t=$(window).width();$(".elements li").css("width",t);$(".templateswap").stop().fadeTo(200,0,function(){var t=$(".templates").find("div[rel="+e+"]").clone();$(".templateswap").html(t).fadeTo(200,1)});$(".gotopane").removeClass("currentanchor");$(this).addClass("currentanchor");$(".pane").stop().scrollTo("li:eq("+e+")",800,"ease");$(".pane li").removeClass("currentimage");$(".pane li:eq("+e+")").addClass("currentimage")});var e=$(window).width();$(".elements li").css("width",e);var t=$(window).height()/1.3;$(".topsection").css("height",t);$(".showlikes img").click(function(){$(".modalwindow").stop().fadeTo(200,1)});$(".closebutton").click(function(){$(".modalwindow").stop().fadeTo(200,0,function(){$(this).hide()})});var n=parseInt($(".likestemplates").attr("rel"));$(".next").click(function(){var e=$(".inner").attr("rel"),t=parseInt(e)+1;if(t<=n){var r=$(".likestemplates").find("div[rel="+t+"]").clone();$(".inner").fadeTo(200,0,function(){$(".inner").html(r).fadeTo(200,1);$(".inner").attr("rel",t)})}});$(".prev").click(function(){var e=$(".inner").attr("rel"),t=parseInt(e-1);if(t>0){var n=$(".likestemplates").find("div[rel="+t+"]").clone();$(".inner").fadeTo(200,0,function(){$(".inner").html(n).fadeTo(200,1);$(".inner").attr("rel",t)})}});$(window).resize(function(){var e=$("#slider").height(),t=$(".topsection").height(),n=t-e;$(".sliderwrapper").css("margin-top",n);var r=$(".currentimage").height();$(".pane").css("height",r);var i=$(window).width();$(".elements li.currentimage").css("width",i);var s=$(window).height()/1.3;$(".topsection").css("height",s)});window.mySwipe=Swipe(document.getElementById("slider"));r()});
+$(function(){function r(){setTimeout(function(){if($(".swipe").css("visibility")==="visible"){var e=$("#slider").height(),t=$(".topsection").height(),n=t-e;$(".sliderwrapper").css("margin-top",n)}else r()},1)}$(".gotopane").click(function(){var e=$(this).attr("rel");$(".modalwindow").fadeTo(200,0,function(){$(this).hide()});var t=$(window).width();$(".elements li").css("width",t);$(".templateswap").stop().fadeTo(200,0,function(){var t=$(".templates").find("div[rel="+e+"]").clone();$(".templateswap").html(t).fadeTo(200,1)});$(".gotopane").removeClass("currentanchor");$(this).addClass("currentanchor");$(".pane").stop().scrollTo("li:eq("+e+")",800,"ease");$(".pane li").removeClass("currentimage");$(".pane li:eq("+e+")").addClass("currentimage")});var e=$(window).width();$(".elements li").css("width",e);var t=$(window).height()/1.3;$(".topsection").css("height",t);$(".showlikes img").click(function(){$(".modalwindow").stop().fadeTo(200,1)});$(".closebutton").click(function(){$(".modalwindow").stop().fadeTo(200,0,function(){$(this).hide()})});var n=parseInt($(".likestemplates").attr("rel"));$(".next").click(function(){var e=$(".inner").attr("rel"),t=parseInt(e)+1;if(t<=n){var r=$(".likestemplates").find("div[rel="+t+"]").clone();$(".inner").fadeTo(200,0,function(){$(".inner").html(r).fadeTo(200,1);$(".inner").attr("rel",t)})}});$(".prev").click(function(){var e=$(".inner").attr("rel"),t=parseInt(e-1);if(t>0){var n=$(".likestemplates").find("div[rel="+t+"]").clone();$(".inner").fadeTo(200,0,function(){$(".inner").html(n).fadeTo(200,1);$(".inner").attr("rel",t)})}});$(window).resize(function(){var e=$("#slider").height(),t=$(".topsection").height(),n=t-e;$(".sliderwrapper").css("margin-top",n);var r=$(".currentimage").height();$(".pane").css("height",r);var i=$(window).width();$(".elements li.currentimage").css("width",i);var s=$(window).height()/1.3;$(".topsection").css("height",s)});window.mySwipe=new Swipe(document.getElementById("slider"));r()});

diff --git a/js/main.js b/js/main.js
@@ -92,7 +92,7 @@ $(function() {
 		$('.pane').css('height', currentImageHeight);
 		
 		var theWidth = $(window).width();
-		// just resizd the currently focused image li
+		// just resize the currently focused image li
 		$('.elements li.currentimage').css('width', theWidth);
 
 		var theHeight = $(window).height()/1.3;
@@ -100,23 +100,24 @@ $(function() {
 	});
 	
 	// swipe, yo!
-	window.mySwipe = Swipe(document.getElementById('slider'));
+	window.mySwipe = new Swipe(document.getElementById('slider'));
 
+	// check if mySwipe exists -- once it does,
+	// make change the swipe margin-top
 	function doResize() {
 		setTimeout(function() {
-			if(mySwipe) {
-				// change margin-top of 'swipe'
+			// check if .swipe elements are visible (so swipe js is initialised)
+			if($('.swipe').css('visibility') === 'visible') {
 				var swipeHeight = $('#slider').height();
 				var topSectionHeight = $('.topsection').height();
 				var topMargin = topSectionHeight - swipeHeight;
 				$('.sliderwrapper').css('margin-top', topMargin);
-				console.log('done');
 			} else {
 				doResize();
 			}
 		}, 1);
 	}
-	
+	// do it
 	doResize();
 	
 });

diff --git a/css/main.scss b/css/main.scss
@@ -32,7 +32,7 @@ body {
 		max-height: 450px;
 	}
 	@media (max-width: 480px) {
-		max-height: 300px;
+		max-height: 250px;
 	}
 	.logo {
 		position: absolute;
@@ -43,6 +43,10 @@ body {
 			width: 300px;
 			height: 175px;
 			margin-left: -150px;
+		}
+		@media (max-width: 480px) {
+			width: 160px;
+			margin-left: -80px;
 		}
 		position:absolute;
 		top: 0;
